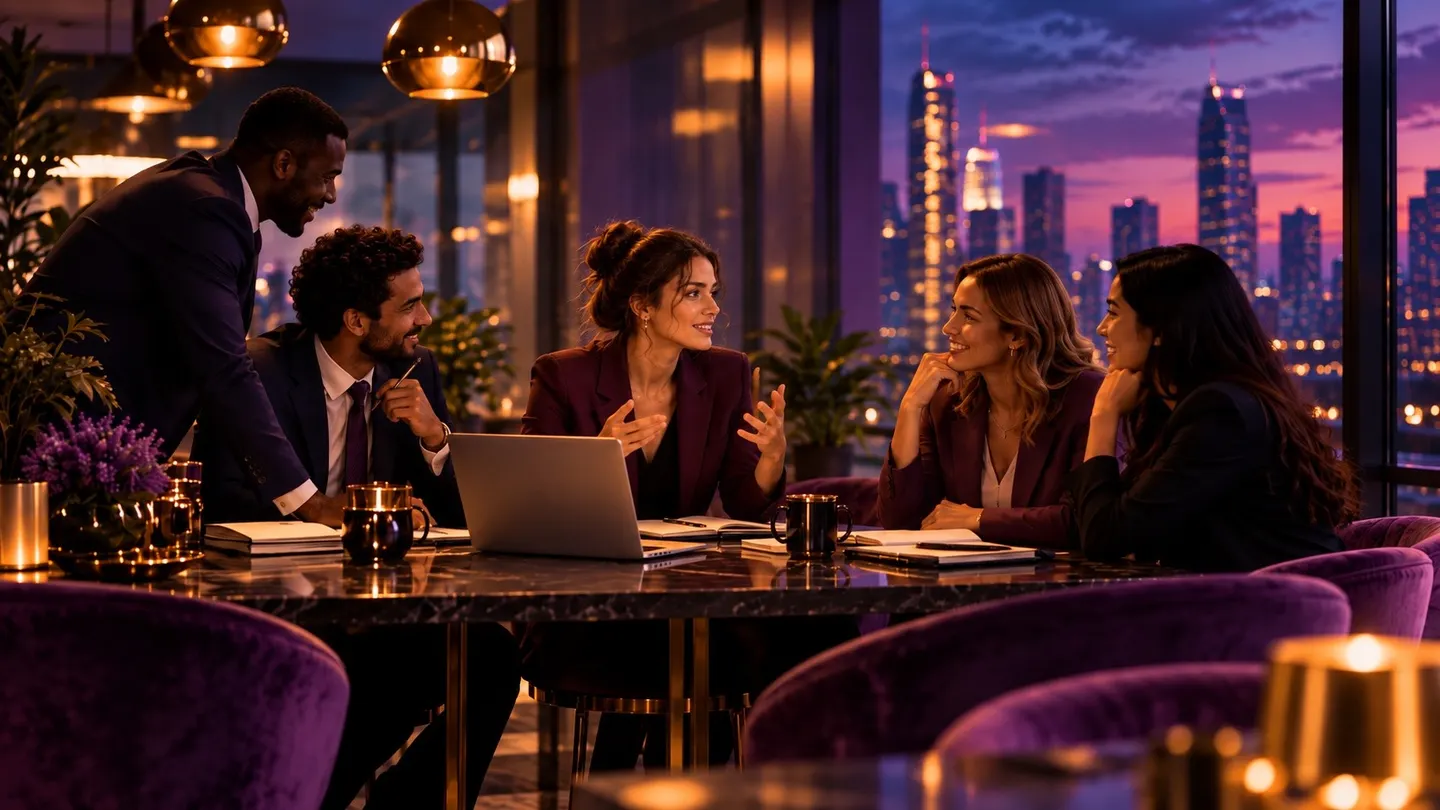
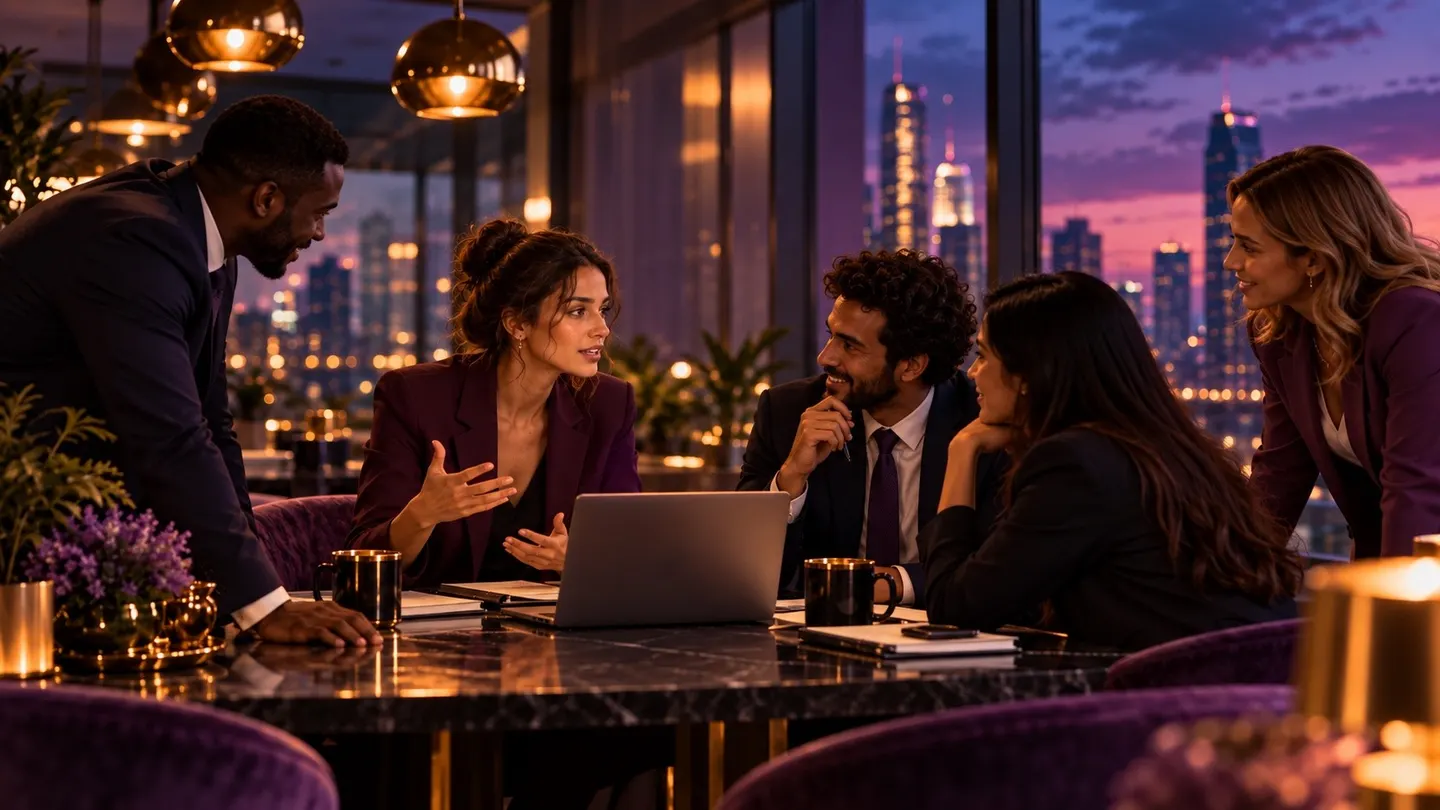
Speaking, the room: three chapters (Think, Feel, Trust), each keeping its title on top while its line and picture turn from the problem to the takeaway
- A chapter can have an optional "turn": a second line and a second
  picture. The word stays on top as the title across both beats. The first
  line fades into the turn line, and the picture crossfades from the first
  still to the turn still. Everything is centred, on desktop and phones
  (scrubbed on phones), with an editor field for it.
- Think turns to curiosity. Feel turns to honest conversation and shared
  responsibility in one new line. Trust (Act's line) turns to confidence
  and trust in one new line.
- New owner pictures: curiosity (wide and tall), Feel (tall), honest
  conversation (tall; the wide one is a crop of it) and confidence (wide).
  Originals are kept under assets/img/mobile.

Claude-Session: https://claude.ai/code/session_01WzDdbUoD3YvZzaMURB5SSu

diff --git a/js/main.js b/js/main.js
@@ -3622,15 +3622,31 @@ var UI = (function () {
 
     var wordsEl = chapters.map(function (c) { return c.querySelector(".spk-chap__word"); });
     var linesEl = chapters.map(function (c) { return c.querySelector(".spk-chap__text"); });
-    /* the six beat elements, in beat order after the heading */
+    /* turn mode (a chapter with a second line and picture, .spk-chap__text--turn
+       and a still with data-turn): the chapter's word is its title and stays
+       on top across both its beats; beat 1 + 2i is its first line over its
+       first still, beat 2 + 2i the turn line over the turn still (the
+       stills crossfade as the lines change) */
+    var turnsEl = chapters.map(function (c) { return c.querySelector(".spk-chap__text--turn"); });
+    var TURN = turnsEl.some(function (t) { return !!t; });
+    if (TURN) sec.classList.add("spk-chap--turn");
+    /* the beat elements, in beat order after the heading */
     var beatEls = [];
-    chapters.forEach(function (c, i) { beatEls.push(wordsEl[i], linesEl[i]); });
+    chapters.forEach(function (c, i) {
+      if (TURN) beatEls.push(linesEl[i], turnsEl[i]);
+      else beatEls.push(wordsEl[i], linesEl[i]);
+    });
     function elOf(b) { return b === 0 ? heading : beatEls[b - 1]; }
-    function stillOf(i) {
+    /* chapter i's still; t: its turn still (falls back to the first) */
+    function stillOf(i, t) {
+      var first = null;
       for (var k = 0; k < stills.length; k++) {
-        if (+stills[k].getAttribute("data-chapter") === i) return stills[k];
+        if (+stills[k].getAttribute("data-chapter") !== i) continue;
+        var isT = stills[k].hasAttribute("data-turn");
+        if (!!t === isT) return stills[k];
+        if (!isT && !first) first = stills[k];
       }
-      return null;
+      return first;
     }
 
     function clamp(x) { return x < 0 ? 0 : (x > 1 ? 1 : x); }
@@ -3645,8 +3661,10 @@ var UI = (function () {
     }
     function words(i) {
       var w = wordsEl[i], l = linesEl[i];
+      var t = turnsEl[i];
       return (w ? w.textContent.trim() : "") + ". " +
-             (l ? l.textContent.replace(/\s+/g, " ").trim() : "");
+             (l ? l.textContent.replace(/\s+/g, " ").trim() : "") +
+             (t ? " " + t.textContent.replace(/\s+/g, " ").trim() : "");
     }
 
     /* The tablist as authored, kept so a mode that strips it (phone, static)
@@ -3684,7 +3702,7 @@ var UI = (function () {
     function clearState() {
       tabs.forEach(function (t) { t.classList.remove("is-on", "is-lit"); });
       chapters.forEach(function (c) { c.classList.remove("is-live", "is-lit"); });
-      beatEls.forEach(function (e) { if (e) e.classList.remove("is-in", "is-leaving", "is-struck"); });
+      beatEls.concat(wordsEl, turnsEl).forEach(function (e) { if (e) e.classList.remove("is-in", "is-leaving", "is-struck"); });
       heading.classList.remove("is-gone");
       stills.forEach(function (st, k) {
         st.classList.toggle("is-on", k === 0);
@@ -3750,7 +3768,7 @@ var UI = (function () {
     }
 
     /* ---- pinned ---- */
-    var curBeat = -1, curIdx = -1, shown = null;
+    var curBeat = -1, curIdx = -1, shown = null, curStill = null, curWord = null, wordT = 0;
     var arriveT = 0, leaveTs = [], offTs = [];
 
     /* the beat on screen leaves, then the target arrives; a call mid-fade
@@ -3808,8 +3826,8 @@ var UI = (function () {
 
     /* the incoming still goes on top and fades in over the outgoing one,
        which keeps its light for the length of the crossfade */
-    function setChapter(idx, first) {
-      var inc = stillOf(idx);
+    function fadeTo(inc, first) {
+      curStill = inc;
       stills.forEach(function (st, k) {
         if (st === inc) {
           clearTimeout(offTs[k]); offTs[k] = 0;
@@ -3823,6 +3841,9 @@ var UI = (function () {
         if (!st.classList.contains("is-on") || offTs[k]) return;
         offTs[k] = setTimeout(function () { offTs[k] = 0; st.classList.remove("is-on"); }, CROSS);
       });
+    }
+    function setChapter(idx, first) {
+      if (!TURN) fadeTo(stillOf(idx), first);
       chapters.forEach(function (c, n) { c.classList.toggle("is-live", n === idx); });
       tabs.forEach(function (t, n) {
         t.setAttribute("aria-selected", n === idx ? "true" : "false");
@@ -3842,12 +3863,27 @@ var UI = (function () {
       var idx = beat === 0 ? 0 : Math.floor((beat - 1) / 2);
       var isLine = beat > 0 && (beat - 1) % 2 === 1;
 
-      if (idx !== curIdx) setChapter(idx, curIdx === -1);
+      var firstCh = curIdx === -1;
+      if (idx !== curIdx) setChapter(idx, firstCh);
+      if (TURN) {
+        /* the still follows the line: the first, then the turn */
+        var want = stillOf(idx, isLine);
+        if (want !== curStill) fadeTo(want, firstCh);
+        /* the title: the chapter's word, on top across both its beats */
+        var w = beat === 0 ? null : wordsEl[idx];
+        if (w !== curWord) {
+          clearTimeout(wordT); wordT = 0;
+          if (curWord) leave(curWord);
+          curWord = w;
+          if (w) wordT = setTimeout(function () { wordT = 0; w.classList.remove("is-leaving"); w.classList.add("is-in"); }, ARRIVE);
+        }
+      }
       if (beat !== curBeat) goTo(beat);
 
-      /* the push-in runs across the chapter's two beats */
-      var c = beat === 0 ? 0 : ((beat - 1) % 2 + s) / 2;
-      var st = stillOf(idx);
+      /* the push-in runs across the chapter's two beats (turn mode: each
+         still across its own beat) */
+      var c = beat === 0 ? 0 : (TURN ? s : ((beat - 1) % 2 + s) / 2);
+      var st = TURN ? curStill : stillOf(idx);
       if (st) st.style.setProperty("--dolly", (1 + (DOLLY - 1) * c).toFixed(4));
 
       /* the dot rests on its chapter's stop and travels at the end of a line */
@@ -3890,7 +3926,7 @@ var UI = (function () {
 
     function startPin() {
       clearState();
-      curIdx = -1;
+      curIdx = -1; curStill = null; curWord = null;
       /* beat 0: the heading visible and nothing else */
       curBeat = 0; shown = heading;
       tabs.forEach(function (t, i) {
@@ -3908,8 +3944,9 @@ var UI = (function () {
         t.removeEventListener("focus", focusFns[i]);
         t.removeEventListener("keydown", keyFns[i]);
       });
-      clearTimeout(arriveT); clearTimeout(sayT);
-      arriveT = sayT = 0;
+      clearTimeout(arriveT); clearTimeout(sayT); clearTimeout(wordT);
+      arriveT = sayT = wordT = 0;
+      curStill = null; curWord = null;
       leaveTs.forEach(function (t) { clearTimeout(t); });
       offTs.forEach(function (t) { clearTimeout(t); });
       leaveTs = []; offTs = [];
@@ -3953,7 +3990,7 @@ var UI = (function () {
     }
     /* a dot lands on its chapter arrived: the quote held (strike) or the
        word and its line held */
-    function dotGo(i) { jump(yAt(i, STRIKE ? 0.5 : 0.7)); }
+    function dotGo(i) { jump(yAt(i, STRIKE ? 0.5 : (TURN ? 0.4 : 0.7))); }
 
     function buildDots() {
       dotsEl = document.createElement("div");
@@ -4037,6 +4074,29 @@ var UI = (function () {
           phPut(st, "d" + k, "--dolly", 1 + (DOLLY - 1) * clamp(s));
         }
         var out = smooth(clamp((s - 0.9) / 0.1));
+        /* turn mode: the title in over 12-25%, the first line 25-38% and
+           out over 47-55%, the turn still crossfades in over 50-65% and its
+           line comes in over 57-70%; all leave together at 90-100% */
+        if (TURN) {
+          var ts = stillOf(k, true);
+          if (ts && ts !== st) {
+            phPut(ts, "to" + k, "--o", smooth(clamp((s - 0.5) / 0.15)));
+            phPut(ts, "td" + k, "--dolly", 1 + (DOLLY - 1) * clamp((s - 0.5) / 0.5));
+          }
+          if (wordsEl[k]) {
+            phPut(wordsEl[k], "wi" + k, "--in", smooth(clamp((s - 0.12) / 0.13)));
+            phPut(wordsEl[k], "wo" + k, "--out", out);
+          }
+          if (linesEl[k]) {
+            phPut(linesEl[k], "li" + k, "--in", smooth(clamp((s - 0.25) / 0.13)));
+            phPut(linesEl[k], "lo" + k, "--out", turnsEl[k] ? smooth(clamp((s - 0.47) / 0.08)) : out);
+          }
+          if (turnsEl[k]) {
+            phPut(turnsEl[k], "ti" + k, "--in", smooth(clamp((s - 0.57) / 0.13)));
+            phPut(turnsEl[k], "tl" + k, "--out", out);
+          }
+          continue;
+        }
         if (wordsEl[k]) {
           phPut(wordsEl[k], "wi" + k, "--in", smooth(clamp((s - 0.25) / 0.2)));
           phPut(wordsEl[k], "wo" + k, "--out", out);
@@ -4093,7 +4153,7 @@ var UI = (function () {
       sec.style.removeProperty("--beat-phone");
       heading.style.removeProperty("--hout");
       stills.forEach(function (st) { st.style.removeProperty("--o"); });
-      beatEls.forEach(function (e) {
+      beatEls.concat(wordsEl, turnsEl).forEach(function (e) {
         if (!e) return;
         e.style.removeProperty("--in"); e.style.removeProperty("--out");
       });

diff --git a/css/main.css b/css/main.css
@@ -2186,6 +2186,18 @@ html:not(.no-js) .spk-chap:not(.is-static):not(.is-phone) .spk-chap__chapter[dat
 /* phones only */
 .spk-chap__frame { display:none; }
 
+/* Turn mode (.spk-chap--turn, set by the script when a chapter has a
+   second line and picture): the word is the chapter's title, in its own
+   row on top, and stays across both beats; the first line and the turn
+   line share the row under it and take turns, while the picture under
+   them crossfades from the first still to the turn still. Everything
+   centred. Stacked modes (reduced motion, no script) show both lines. */
+html:not(.no-js) .spk-chap--turn:not(.is-static):not(.is-phone) .spk-chap__chapter {
+  justify-items:center; row-gap: clamp(1rem, 3.2vh, 2.2rem); }
+html:not(.no-js) .spk-chap--turn:not(.is-static):not(.is-phone) .spk-chap__word { grid-area:1/1; }
+html:not(.no-js) .spk-chap--turn:not(.is-static):not(.is-phone) .spk-chap__text { grid-area:2/1; }
+.spk-chap--turn .spk-chap__word { letter-spacing: .01em; }
+
 /* One fade recipe for every beat element: hidden at rest, in, leaving. */
 .spk-chap__word, .spk-chap__text { grid-area:1/1; opacity:0; transform: translateY(12px);
   filter: blur(8px); visibility:hidden;
@@ -2279,6 +2291,10 @@ html.no-js .spk-chap__text { position:static; margin-top: clamp(.9rem, 2vh, 1.4r
 .spk-chap.is-phone .spk-chap__text { margin-top: clamp(.9rem, 2.4vh, 1.4rem); max-width: 22ch;
   font-size: var(--step-1); }
 .spk-chap.is-phone .spk-chap__chapter:focus-visible { outline-offset:-6px; }
+/* turn mode on phones: the title on top, the two lines in one cell under it */
+.spk-chap--turn.is-phone .spk-chap__chapter { display:grid; align-content:center; justify-items:center; }
+.spk-chap--turn.is-phone .spk-chap__word { grid-area:1/1; }
+.spk-chap--turn.is-phone .spk-chap__text { grid-area:2/1; }
 /* the dots: one per chapter, the current one long; each is a 44px target */
 .spk-chap__dots { position:absolute; left:0; right:0; bottom: max(1.2rem, env(safe-area-inset-bottom)); z-index:4;
   display:flex; justify-content:center; gap:0; }
